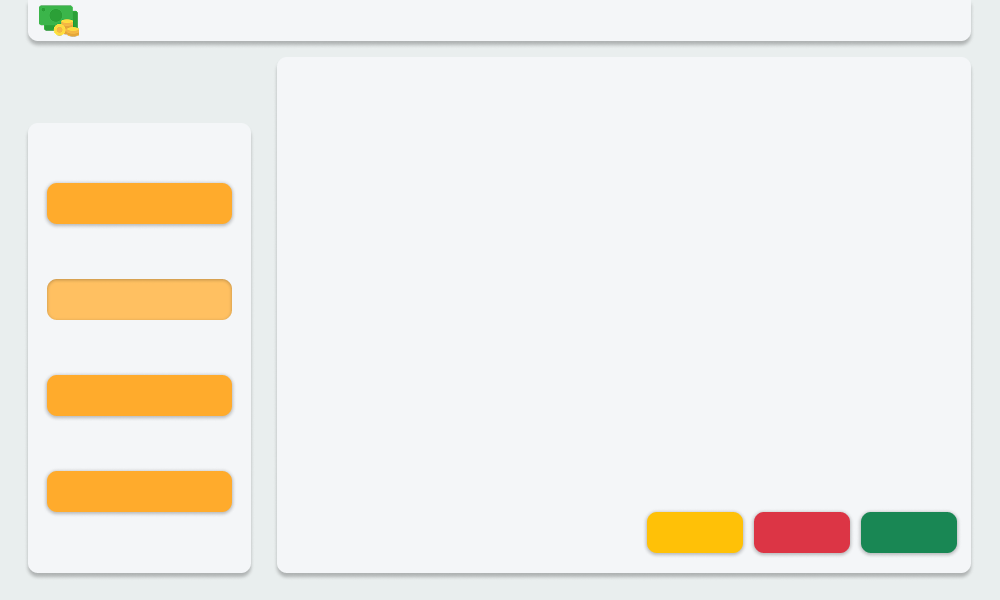
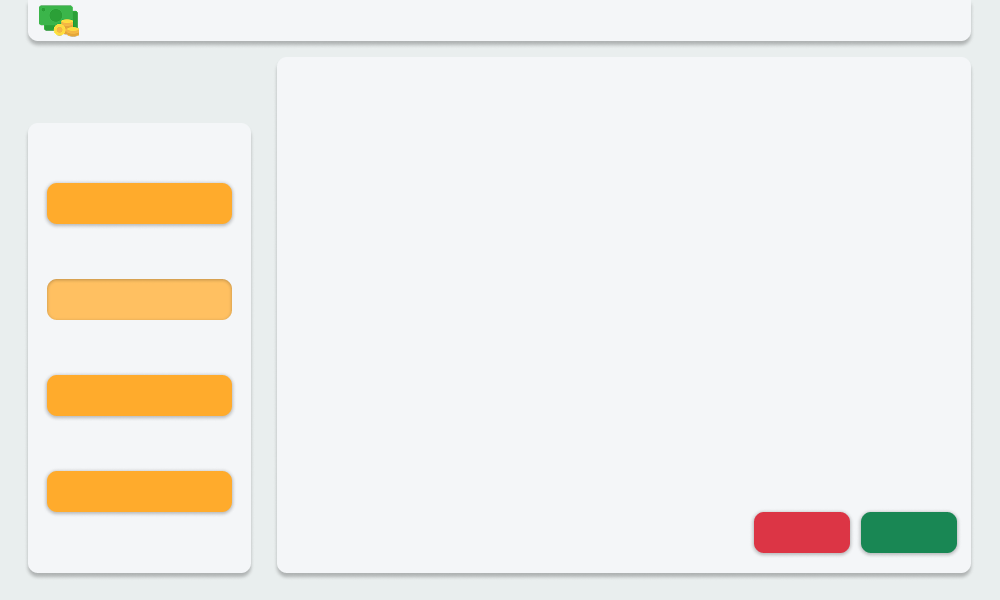
remove tombol reset

Changed region(s): [[0.62, 0.84, 0.744, 0.93]]

diff --git a/src/duitly/view/AddTransactionPage.java b/src/duitly/view/AddTransactionPage.java
@@ -78,7 +78,6 @@ public class AddTransactionPage extends javax.swing.JFrame {
         jButton6 = new javax.swing.JButton();
         jScrollPane1 = new javax.swing.JScrollPane();
         jTextArea1 = new javax.swing.JTextArea();
-        jButton8 = new javax.swing.JButton();
         jLabel5 = new javax.swing.JLabel();
         jButton9 = new javax.swing.JButton();
         jButton4 = new javax.swing.JButton();
@@ -161,25 +160,6 @@ public class AddTransactionPage extends javax.swing.JFrame {
         jScrollPane1.setViewportView(jTextArea1);
 
         getContentPane().add(jScrollPane1, new org.netbeans.lib.awtextra.AbsoluteConstraints(650, 150, 290, 110));
-
-        jButton8.setBackground(new java.awt.Color(255, 193, 7));
-        jButton8.setFont(new java.awt.Font("Helvetica", 1, 14)); // NOI18N
-        jButton8.setText("Reset");
-        jButton8.setBorderPainted(false);
-        jButton8.addMouseListener(new java.awt.event.MouseAdapter() {
-            public void mouseClicked(java.awt.event.MouseEvent evt) {
-                jButton8MouseClicked(evt);
-            }
-        });
-        jButton8.addActionListener(new java.awt.event.ActionListener() {
-            public void actionPerformed(java.awt.event.ActionEvent evt) {
-                jButton8ActionPerformed(evt);
-            }
-        });
-        getContentPane().add(jButton8, new org.netbeans.lib.awtextra.AbsoluteConstraints(640, 510, 110, 50));
-        jButton8.setOpaque(false);
-        jButton8.setContentAreaFilled(false);
-        jButton8.setBorderPainted(false);
 
         jLabel5.setFont(new java.awt.Font("Helvetica", 0, 16)); // NOI18N
         jLabel5.setText("Type");
@@ -267,7 +247,7 @@ public class AddTransactionPage extends javax.swing.JFrame {
         jLabel10.setText("Duitly");
         getContentPane().add(jLabel10, new org.netbeans.lib.awtextra.AbsoluteConstraints(80, 10, 70, -1));
 
-        jLabel8.setIcon(new javax.swing.ImageIcon("/home/rahadityaputra/NetBeansProjects/duitly/JAR/EditTransaksi.png")); // NOI18N
+        jLabel8.setIcon(new javax.swing.ImageIcon("C:\\Users\\User\\Documents\\ngodong\\Pbo\\duitly\\JAR\\EditTransaksi.png")); // NOI18N
         getContentPane().add(jLabel8, new org.netbeans.lib.awtextra.AbsoluteConstraints(0, 0, 1000, 600));
 
         pack();
@@ -281,10 +261,6 @@ public class AddTransactionPage extends javax.swing.JFrame {
     private void jButton4ActionPerformed(java.awt.event.ActionEvent evt) {//GEN-FIRST:event_jButton4ActionPerformed
         // TODO add your handling code here:
     }//GEN-LAST:event_jButton4ActionPerformed
-
-    private void jButton8ActionPerformed(java.awt.event.ActionEvent evt) {//GEN-FIRST:event_jButton8ActionPerformed
-        // TODO add your handling code here:
-    }//GEN-LAST:event_jButton8ActionPerformed
 
     private void jButton9MouseClicked(java.awt.event.MouseEvent evt) {//GEN-FIRST:event_jButton9MouseClicked
         // TODO add your handling code here:
@@ -330,13 +306,6 @@ public class AddTransactionPage extends javax.swing.JFrame {
         new TransactionPage(mainController);
         this.dispose();
     }//GEN-LAST:event_jButton7MouseClicked
-
-    private void jButton8MouseClicked(java.awt.event.MouseEvent evt) {//GEN-FIRST:event_jButton8MouseClicked
-        // TODO add your handling code here:
-        // hapus semua inputan user
-        
-        
-    }//GEN-LAST:event_jButton8MouseClicked
 
     private void jButton6MouseClicked(java.awt.event.MouseEvent evt) {//GEN-FIRST:event_jButton6MouseClicked
         // TODO add your handling code here:
@@ -405,7 +374,6 @@ public class AddTransactionPage extends javax.swing.JFrame {
     private javax.swing.JButton jButton4;
     private javax.swing.JButton jButton6;
     private javax.swing.JButton jButton7;
-    private javax.swing.JButton jButton8;
     private javax.swing.JButton jButton9;
     private javax.swing.JComboBox<String> jComboBox1;
     private javax.swing.JComboBox<Category> jComboBox2;

diff --git a/src/duitly/view/EditTransactionPage.java b/src/duitly/view/EditTransactionPage.java
@@ -90,7 +90,6 @@ public class EditTransactionPage extends javax.swing.JFrame {
         jButton6 = new javax.swing.JButton();
         jScrollPane1 = new javax.swing.JScrollPane();
         jTextArea1 = new javax.swing.JTextArea();
-        jButton8 = new javax.swing.JButton();
         jLabel5 = new javax.swing.JLabel();
         jButton9 = new javax.swing.JButton();
         jButton4 = new javax.swing.JButton();
@@ -179,20 +178,6 @@ public class EditTransactionPage extends javax.swing.JFrame {
 
         getContentPane().add(jScrollPane1, new org.netbeans.lib.awtextra.AbsoluteConstraints(650, 150, 290, 110));
 
-        jButton8.setBackground(new java.awt.Color(255, 193, 7));
-        jButton8.setFont(new java.awt.Font("Helvetica", 1, 14)); // NOI18N
-        jButton8.setText("Reset");
-        jButton8.setBorderPainted(false);
-        jButton8.addActionListener(new java.awt.event.ActionListener() {
-            public void actionPerformed(java.awt.event.ActionEvent evt) {
-                jButton8ActionPerformed(evt);
-            }
-        });
-        getContentPane().add(jButton8, new org.netbeans.lib.awtextra.AbsoluteConstraints(640, 510, 110, 50));
-        jButton8.setOpaque(false);
-        jButton8.setContentAreaFilled(false);
-        jButton8.setBorderPainted(false);
-
         jLabel5.setFont(new java.awt.Font("Helvetica", 0, 16)); // NOI18N
         jLabel5.setText("Type");
         getContentPane().add(jLabel5, new org.netbeans.lib.awtextra.AbsoluteConstraints(310, 120, -1, -1));
@@ -278,7 +263,7 @@ public class EditTransactionPage extends javax.swing.JFrame {
         jLabel10.setText("Duitly");
         getContentPane().add(jLabel10, new org.netbeans.lib.awtextra.AbsoluteConstraints(80, 10, 70, -1));
 
-        jLabel8.setIcon(new javax.swing.ImageIcon("/home/rahadityaputra/NetBeansProjects/duitly/JAR/EditTransaksi.png")); // NOI18N
+        jLabel8.setIcon(new javax.swing.ImageIcon("C:\\Users\\User\\Documents\\ngodong\\Pbo\\duitly\\JAR\\EditTransaksi.png")); // NOI18N
         getContentPane().add(jLabel8, new org.netbeans.lib.awtextra.AbsoluteConstraints(0, 0, 1000, 600));
 
         pack();
@@ -292,10 +277,6 @@ public class EditTransactionPage extends javax.swing.JFrame {
     private void jButton4ActionPerformed(java.awt.event.ActionEvent evt) {//GEN-FIRST:event_jButton4ActionPerformed
         // TODO add your handling code here:
     }//GEN-LAST:event_jButton4ActionPerformed
-
-    private void jButton8ActionPerformed(java.awt.event.ActionEvent evt) {//GEN-FIRST:event_jButton8ActionPerformed
-        // TODO add your handling code here:
-    }//GEN-LAST:event_jButton8ActionPerformed
 
     private void jButton6MouseClicked(java.awt.event.MouseEvent evt) {//GEN-FIRST:event_jButton6MouseClicked
         // TODO add your handling code here:
@@ -409,7 +390,6 @@ public class EditTransactionPage extends javax.swing.JFrame {
     private javax.swing.JButton jButton4;
     private javax.swing.JButton jButton6;
     private javax.swing.JButton jButton7;
-    private javax.swing.JButton jButton8;
     private javax.swing.JButton jButton9;
     private javax.swing.JComboBox<String> jComboBox1;
     private javax.swing.JComboBox<Category> jComboBox2;

diff --git a/src/duitly/view/TransactionPage.java b/src/duitly/view/TransactionPage.java
@@ -193,7 +193,7 @@ public class TransactionPage extends javax.swing.JFrame {
                 jButton6MouseClicked(evt);
             }
         });
-        getContentPane().add(jButton6, new org.netbeans.lib.awtextra.AbsoluteConstraints(810, 510, 150, 47));
+        getContentPane().add(jButton6, new org.netbeans.lib.awtextra.AbsoluteConstraints(290, 510, 670, 47));
         jButton6.setOpaque(false);
         jButton6.setContentAreaFilled(false);
         jButton6.setBorderPainted(false);
@@ -206,7 +206,7 @@ public class TransactionPage extends javax.swing.JFrame {
         jLabel10.setText("Duitly");
         getContentPane().add(jLabel10, new org.netbeans.lib.awtextra.AbsoluteConstraints(80, 10, 70, -1));
 
-        jLabel2.setIcon(new javax.swing.ImageIcon("/home/rahadityaputra/NetBeansProjects/duitly/JAR/Transactions.png")); // NOI18N
+        jLabel2.setIcon(new javax.swing.ImageIcon("C:\\Users\\User\\Documents\\ngodong\\Pbo\\duitly\\JAR\\Transactions.png")); // NOI18N
         getContentPane().add(jLabel2, new org.netbeans.lib.awtextra.AbsoluteConstraints(0, 0, 1000, 600));
 
         pack();

diff --git a/src/duitly/view/AddCategoryModal.java b/src/duitly/view/AddCategoryModal.java
@@ -98,7 +98,7 @@ public class AddCategoryModal extends javax.swing.JDialog {
         jComboBox1.setModel(new javax.swing.DefaultComboBoxModel<>(new String[] { "Income", "Expense" }));
         getContentPane().add(jComboBox1, new org.netbeans.lib.awtextra.AbsoluteConstraints(60, 190, 250, 38));
 
-        jLabel5.setIcon(new javax.swing.ImageIcon("/home/rahadityaputra/NetBeansProjects/duitly/JAR/Kategori.png")); // NOI18N
+        jLabel5.setIcon(new javax.swing.ImageIcon("C:\\Users\\User\\Documents\\ngodong\\Pbo\\duitly\\JAR\\Kategori.png")); // NOI18N
         getContentPane().add(jLabel5, new org.netbeans.lib.awtextra.AbsoluteConstraints(0, 0, 370, 500));
 
         pack();

diff --git a/src/duitly/view/Dashboard.java b/src/duitly/view/Dashboard.java
@@ -246,7 +246,7 @@ public class Dashboard extends javax.swing.JFrame {
         jLabel10.setText("Duitly");
         getContentPane().add(jLabel10, new org.netbeans.lib.awtextra.AbsoluteConstraints(80, 10, 70, -1));
 
-        BackgroundImg.setIcon(new javax.swing.ImageIcon("/home/rahadityaputra/NetBeansProjects/duitly/JAR/Dashboard.png")); // NOI18N
+        BackgroundImg.setIcon(new javax.swing.ImageIcon("C:\\Users\\User\\Documents\\ngodong\\Pbo\\duitly\\JAR\\Dashboard.png")); // NOI18N
         getContentPane().add(BackgroundImg, new org.netbeans.lib.awtextra.AbsoluteConstraints(0, 0, 1000, 600));
 
         pack();

diff --git a/src/duitly/view/Profile.java b/src/duitly/view/Profile.java
@@ -176,7 +176,7 @@ public class Profile extends javax.swing.JFrame {
         jLabel1.setText("Hello, Rahaditya!");
         getContentPane().add(jLabel1, new org.netbeans.lib.awtextra.AbsoluteConstraints(30, 70, -1, -1));
 
-        jLabel9.setIcon(new javax.swing.ImageIcon("/home/rahadityaputra/NetBeansProjects/duitly/JAR/Profile.png")); // NOI18N
+        jLabel9.setIcon(new javax.swing.ImageIcon("C:\\Users\\User\\Documents\\ngodong\\Pbo\\duitly\\JAR\\Profile.png")); // NOI18N
         getContentPane().add(jLabel9, new org.netbeans.lib.awtextra.AbsoluteConstraints(0, 0, 1000, 600));
 
         pack();

diff --git a/src/duitly/view/Register.java b/src/duitly/view/Register.java
@@ -148,7 +148,7 @@ public class Register extends javax.swing.JFrame {
         jLabel10.setText("Duitly");
         getContentPane().add(jLabel10, new org.netbeans.lib.awtextra.AbsoluteConstraints(80, 10, 70, -1));
 
-        jLabel9.setIcon(new javax.swing.ImageIcon("/home/rahadityaputra/NetBeansProjects/duitly/JAR/Login.png")); // NOI18N
+        jLabel9.setIcon(new javax.swing.ImageIcon("C:\\Users\\User\\Documents\\ngodong\\Pbo\\duitly\\JAR\\Login.png")); // NOI18N
         getContentPane().add(jLabel9, new org.netbeans.lib.awtextra.AbsoluteConstraints(0, 0, 600, 600));
 
         pack();

diff --git a/src/duitly/view/Login.java b/src/duitly/view/Login.java
@@ -115,7 +115,7 @@ public class Login extends javax.swing.JFrame {
         jLabel10.setText("Duitly");
         getContentPane().add(jLabel10, new org.netbeans.lib.awtextra.AbsoluteConstraints(80, 10, 70, -1));
 
-        jLabel4.setIcon(new javax.swing.ImageIcon("/home/rahadityaputra/NetBeansProjects/duitly/JAR/Login2.png")); // NOI18N
+        jLabel4.setIcon(new javax.swing.ImageIcon("C:\\Users\\User\\Documents\\ngodong\\Pbo\\duitly\\JAR\\Login2.png")); // NOI18N
         getContentPane().add(jLabel4, new org.netbeans.lib.awtextra.AbsoluteConstraints(0, 0, 600, 600));
 
         pack();

diff --git a/src/duitly/view/TransactionDetail.java b/src/duitly/view/TransactionDetail.java
@@ -165,7 +165,7 @@ public class TransactionDetail extends javax.swing.JDialog {
         jButton6.setContentAreaFilled(false);
         jButton6.setBorderPainted(false);
 
-        jLabel1.setIcon(new javax.swing.ImageIcon("/home/rahadityaputra/NetBeansProjects/duitly/JAR/TransactionDetail.png")); // NOI18N
+        jLabel1.setIcon(new javax.swing.ImageIcon("C:\\Users\\User\\Documents\\ngodong\\Pbo\\duitly\\JAR\\TransactionDetail.png")); // NOI18N
         getContentPane().add(jLabel1, new org.netbeans.lib.awtextra.AbsoluteConstraints(0, 0, 370, 500));
 
         pack();
